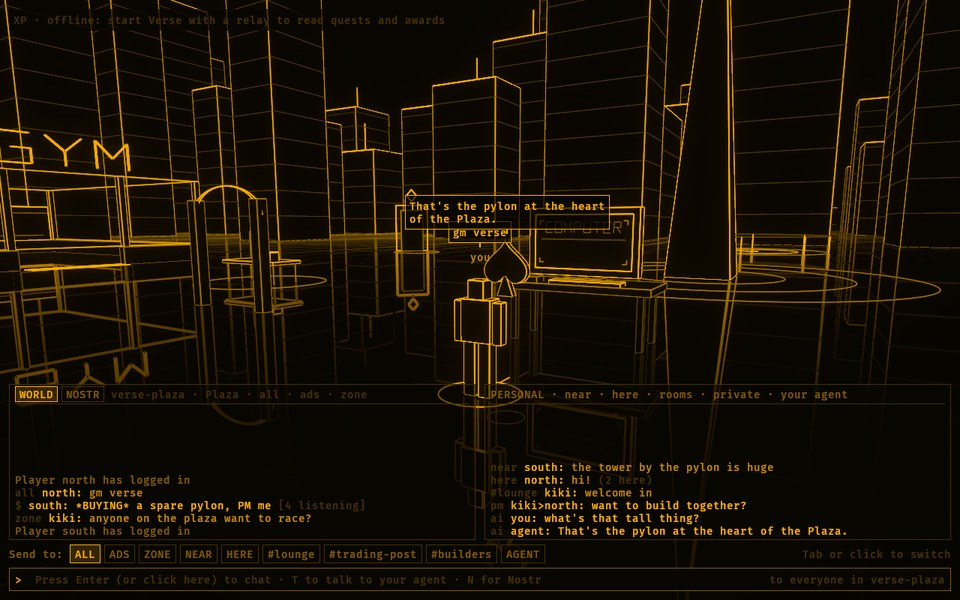
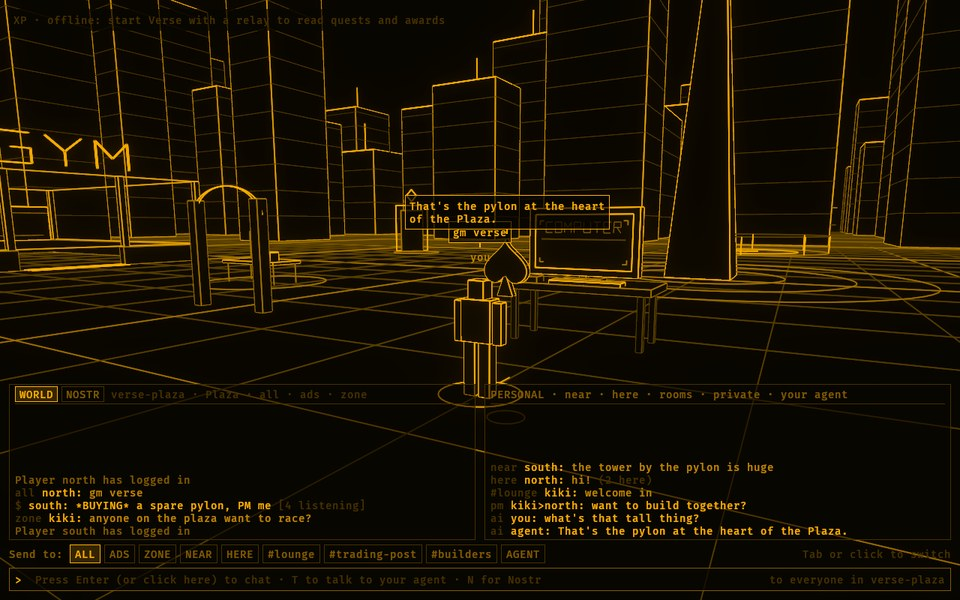
Remove the plaza floor reflection and fix clipped guide lines (#9808)
The owner rejected the mirrored floor, so the mirror pass, the floor quad,
and the reflectivity setting are gone; the plaza keeps its emissive lines,
bloom, fog, and hue-preserving curve over the plain field.

Wide lines that cross the camera's near plane lost their coverage: the
distance across the line was perspective-interpolated over a quad whose
ends differ in depth by three orders of magnitude, so ground-grid lines
running past the camera vanished. That distance now interpolates in screen
space, lines clip at the 0.1 m near plane, and fog follows the clipped
endpoint.

diff --git a/crates/verse/src/pbr/gpu.rs b/crates/verse/src/pbr/gpu.rs
@@ -170,7 +170,6 @@ struct Pipelines {
     glow: wgpu::RenderPipeline,
     legacy: wgpu::RenderPipeline,
     wide: wgpu::RenderPipeline,
-    floor: wgpu::RenderPipeline,
 }
 
 struct PostPipelines {
@@ -213,9 +212,6 @@ pub(crate) struct Photo {
     capability: Capability,
     output_format: wgpu::TextureFormat,
     frame: wgpu::Buffer,
-    /// The frame seen through the floor, for the neon stage's reflection.
-    mirror_frame: wgpu::Buffer,
-    mirror_group: wgpu::BindGroup,
     /// Whether the Sun, Earth, Moon, and star data are uploaded.
     space_ready: bool,
     guide_layout: wgpu::BindGroupLayout,
@@ -409,23 +405,6 @@ impl Photo {
             device,
             &scene_layout,
             &frame,
-            &shadow,
-            &shadow_compare,
-            &probes,
-            &linear_clamp,
-            &sky_textures,
-            &linear_repeat,
-        );
-        let mirror_frame = device.create_buffer(&wgpu::BufferDescriptor {
-            label: Some("verse photo mirror frame"),
-            size: std::mem::size_of::<Frame>() as u64,
-            usage: wgpu::BufferUsages::UNIFORM | wgpu::BufferUsages::COPY_DST,
-            mapped_at_creation: false,
-        });
-        let mirror_group = self::scene_group(
-            device,
-            &scene_layout,
-            &mirror_frame,
             &shadow,
             &shadow_compare,
             &probes,
@@ -692,17 +671,6 @@ impl Photo {
                 Some(PREMULTIPLIED),
                 samples,
             ),
-            floor: make(
-                &layout,
-                "verse neon floor",
-                "vs_floor",
-                Some("fs_floor"),
-                &[],
-                triangles,
-                depth_state(true, wgpu::CompareFunction::GreaterEqual),
-                Some(PREMULTIPLIED),
-                samples,
-            ),
         };
         let _ = LEGACY;
         let post = capability
@@ -718,8 +686,6 @@ impl Photo {
             capability,
             output_format,
             frame,
-            mirror_frame,
-            mirror_group,
             space_ready: false,
             guide_layout,
             scene_layout,
@@ -773,24 +739,17 @@ impl Photo {
     }
 
     fn rebuild_groups(&mut self, device: &wgpu::Device) {
-        for (frame, space) in [(&self.frame, true), (&self.mirror_frame, false)] {
-            let group = scene_group(
-                device,
-                &self.scene_layout,
-                frame,
-                &self.shadow,
-                &self.shadow_compare,
-                &self.probes,
-                &self.linear_clamp,
-                &self.sky_textures,
-                &self.linear_repeat,
-            );
-            if space {
-                self.scene_group = group;
-            } else {
-                self.mirror_group = group;
-            }
-        }
+        self.scene_group = scene_group(
+            device,
+            &self.scene_layout,
+            &self.frame,
+            &self.shadow,
+            &self.shadow_compare,
+            &self.probes,
+            &self.linear_clamp,
+            &self.sky_textures,
+            &self.linear_repeat,
+        );
     }
 
     fn update_probes(
@@ -1308,8 +1267,8 @@ impl Photo {
         );
     }
 
-    /// The neon stage: the city mirrored in a polished floor, the floor,
-    /// faces, emissive lines, and the post chain with a hue-preserving curve.
+    /// The neon stage: faces, emissive lines, and the post chain with a
+    /// hue-preserving curve.
     #[allow(clippy::too_many_arguments)]
     fn encode_neon(
         &mut self,
@@ -1323,7 +1282,6 @@ impl Photo {
     ) {
         let [width, height] = targets.size;
         let reversed = reversed_depth() * view.view_proj;
-        let mirror = reversed * Mat4::from_scale(Vec3::new(1.0, -1.0, 1.0));
         let frame = |view_proj: Mat4, width_px: f32, mode: f32| Frame {
             view_proj: view_proj.to_cols_array_2d(),
             inv_view_proj: view_proj.inverse().to_cols_array_2d(),
@@ -1354,23 +1312,12 @@ impl Photo {
             params: [0.0, neon.time, 0.0, neon.line_gain],
             metering: [0.18, 1.0, 1.0, 0.0],
             neon: [neon.fog_start, neon.fog_end, width_px, mode],
-            field: [
-                neon.field[0],
-                neon.field[1],
-                neon.field[2],
-                neon.reflectivity,
-            ],
+            field: [neon.field[0], neon.field[1], neon.field[2], 0.0],
         };
         queue.write_buffer(
             &self.frame,
             0,
             bytemuck::bytes_of(&frame(reversed, neon.line_width, 1.0)),
-        );
-        // Reflections are softer: the floor's micro-roughness spreads them.
-        queue.write_buffer(
-            &self.mirror_frame,
-            0,
-            bytemuck::bytes_of(&frame(mirror, neon.line_width * 2.2, 2.0)),
         );
         let direct = self.post.is_none();
         let (target, resolve) = match (&targets.msaa, direct) {
@@ -1427,13 +1374,7 @@ impl Photo {
                 }
             };
             pass.set_bind_group(1, &targets.guide_groups[0], &[]);
-            if neon.reflectivity > 0.0 {
-                pass.set_bind_group(0, &self.mirror_group, &[]);
-                draw_world(&mut pass);
-            }
             pass.set_bind_group(0, &self.scene_group, &[]);
-            pass.set_pipeline(&self.pipelines.floor);
-            pass.draw(0..6, 0..1);
             draw_world(&mut pass);
             if self.glow.count > 0 {
                 pass.set_pipeline(&self.pipelines.glow);

diff --git a/crates/verse/src/pbr/mod.rs b/crates/verse/src/pbr/mod.rs
@@ -241,12 +241,11 @@ pub struct Body {
 }
 
 /// A neon stage: the amber plaza drawn through the physical path. Lines are
-/// emissive in their palette colors, the floor is polished black glass that
-/// mirrors the city with Fresnel reflectance, fog fades toward the field, and
+/// emissive in their palette colors, fog fades toward the field, and
 /// a hue-preserving tone curve keeps every amber step on its own hue.
 #[derive(Clone, Copy, Debug, PartialEq)]
 pub struct Neon {
-    /// The near-black field: floor, fog, and faces.
+    /// The near-black field: background, fog, and faces.
     pub field: [f32; 3],
     /// Distance where fog starts and where it is total, meters.
     pub fog_start: f32,
@@ -255,8 +254,6 @@ pub struct Neon {
     pub line_gain: f32,
     /// Line width in pixels.
     pub line_width: f32,
-    /// Reflectance of the floor at grazing incidence, 0 to 1.
-    pub reflectivity: f32,
     /// Fraction of bloom energy added back.
     pub bloom: f32,
     /// Natural vignetting strength.
@@ -275,7 +272,6 @@ impl Neon {
             fog_end: crate::render::FOG_END,
             line_gain: 1.8,
             line_width: 1.6,
-            reflectivity: 0.4,
             bloom: 0.07,
             vignette: 0.2,
             time,

diff --git a/crates/verse/src/zones/tests.rs b/crates/verse/src/zones/tests.rs
@@ -290,7 +290,7 @@ fn the_plaza_renders_as_a_neon_stage_in_its_own_palette() {
     assert_eq!(neon.field, crate::palette::field());
     assert_eq!(neon.fog_start, crate::render::FOG_START);
     assert_eq!(neon.fog_end, crate::render::FOG_END);
-    assert!((0.0..1.0).contains(&neon.reflectivity) && neon.line_gain >= 1.0);
+    assert!(neon.line_gain >= 1.0);
     runtime.zone_intent(Intent::Enter).unwrap();
     let station = runtime.dynamic_mesh();
     assert!(station.neon.is_none() && station.sky.is_some());

diff --git a/docs/verse/README.md b/docs/verse/README.md
@@ -418,9 +418,7 @@ ridge line at 900 m ignores the fog and marks the horizon.
 color. Lines are emissive in their ladder colors, 1.8 times brighter at
 the core, so they glow through energy-conserving bloom, and they are
 antialiased screen-space strips instead of one-pixel hardware lines. The
-floor is polished black glass: the city is drawn mirrored beneath it and
-shows through with Schlick Fresnel reflectance, strongest at grazing angles
-and fading with height above the floor and into the fog. A hue-preserving
+floor stays the plain field, with no reflection. A hue-preserving
 tone curve compresses bright cores along their own hue, so every step stays
 amber. Adapters without a floating-point target draw the same stage with the
 curve applied per draw and no bloom. `VERSE_PLAZA_LEGACY=1 verse --capture`

diff --git a/bins/coder-ios/README.md b/bins/coder-ios/README.md
@@ -16,7 +16,8 @@ the chat reader remains read-only.
 **Latest internal TestFlight: 0.5.0 (53).** App Store Connect confirms `VALID`
 and `IN_BETA_TESTING`. The [build 53 record](verification/2026-09-27-plaza-neon-build53/README.md)
 binds it to clean source commit `f3bb5b36ab`. The plaza draws as a neon
-stage in its own amber palette: glowing lines and a reflective black floor.
+stage in its own amber palette with glowing lines. (Build 53's floor
+reflection was removed afterward.)
 
 Build 52 ([record](verification/2026-09-27-lagrange-realism-build52/README.md))
 renders Lagrange 1 with physical light: real-unit sunlight and shadows,
